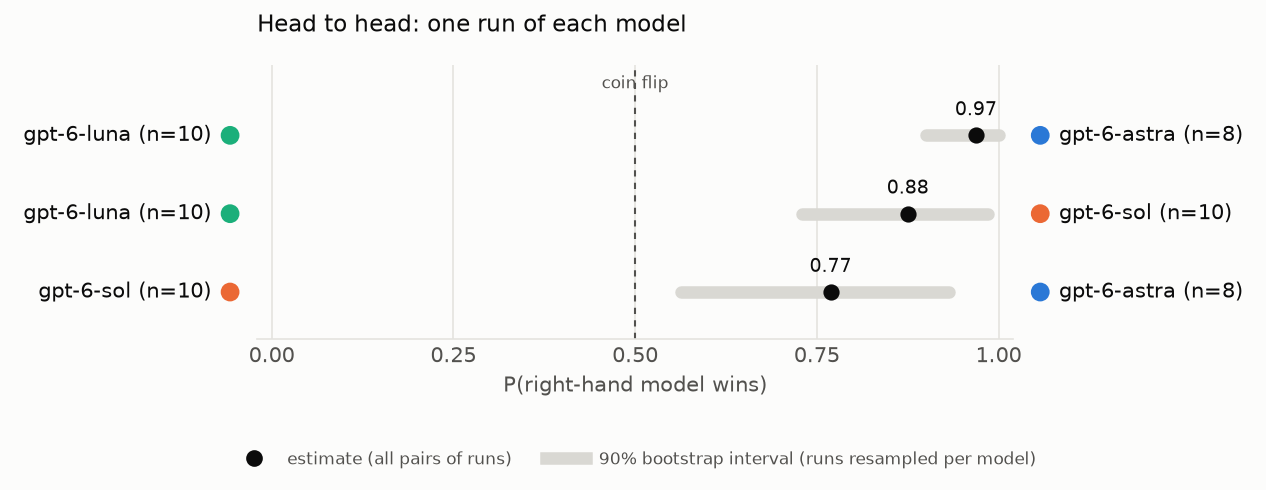
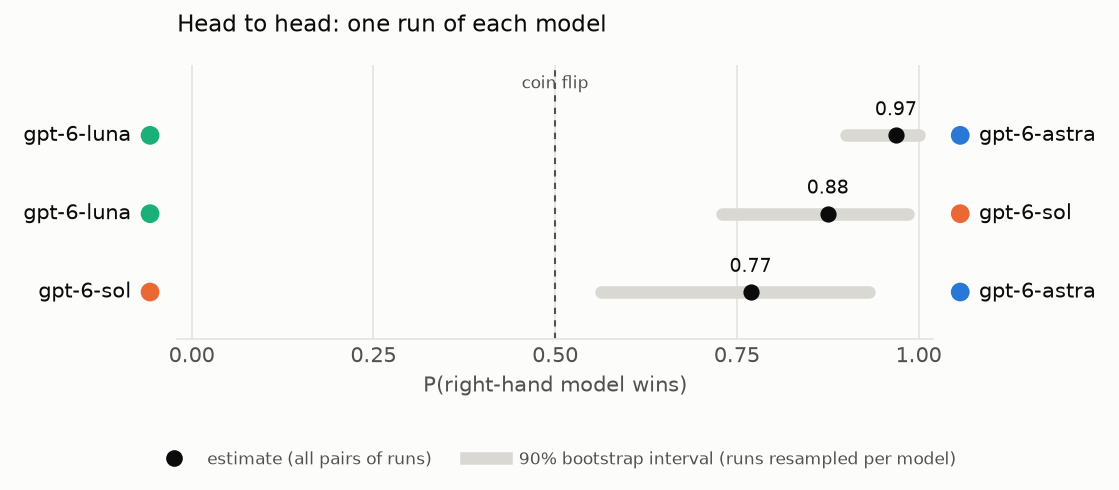
Pairwise plot: model names without run counts

diff --git a/tools/pairwise_win_prob.py b/tools/pairwise_win_prob.py
@@ -97,7 +97,7 @@ def plot(rows, runs):
     def label(m, dot_first):
         da = DrawingArea(10, 10)
         da.add_artist(Circle((5, 5), 4, color=colour[m]))
-        t = TextArea(f"{m} (n={len(runs[m])})", textprops=dict(color=INK, fontsize=10))
+        t = TextArea(m, textprops=dict(color=INK, fontsize=10))
         return HPacker(children=[da, t] if dot_first else [t, da], pad=0, sep=4, align="center")
 
     for i, (m1, m2, *_) in enumerate(rows):
